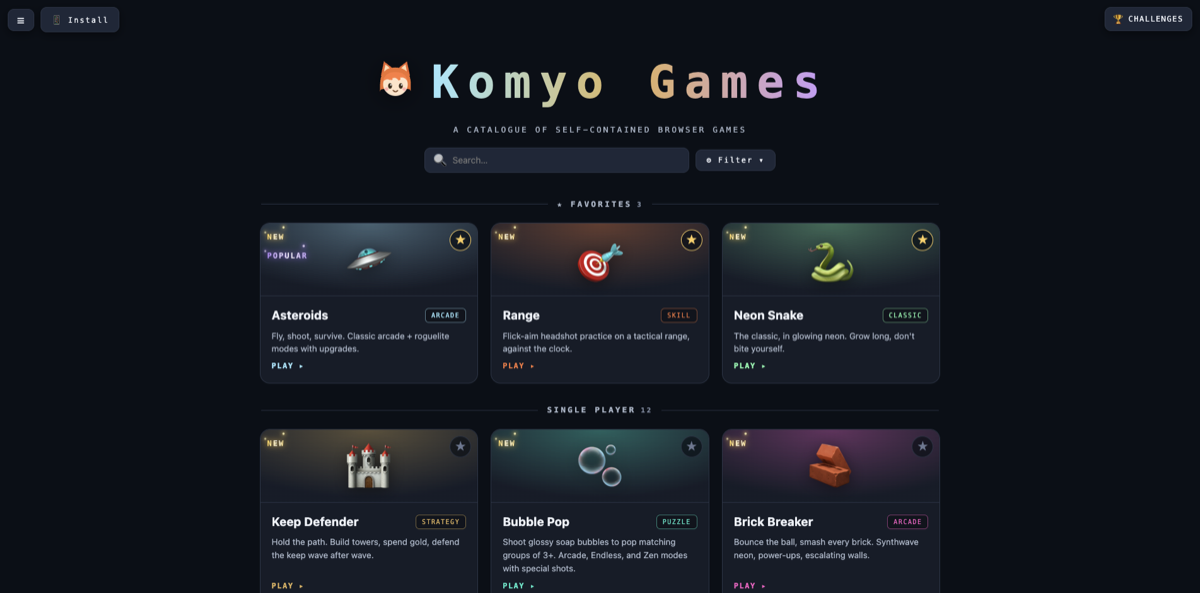
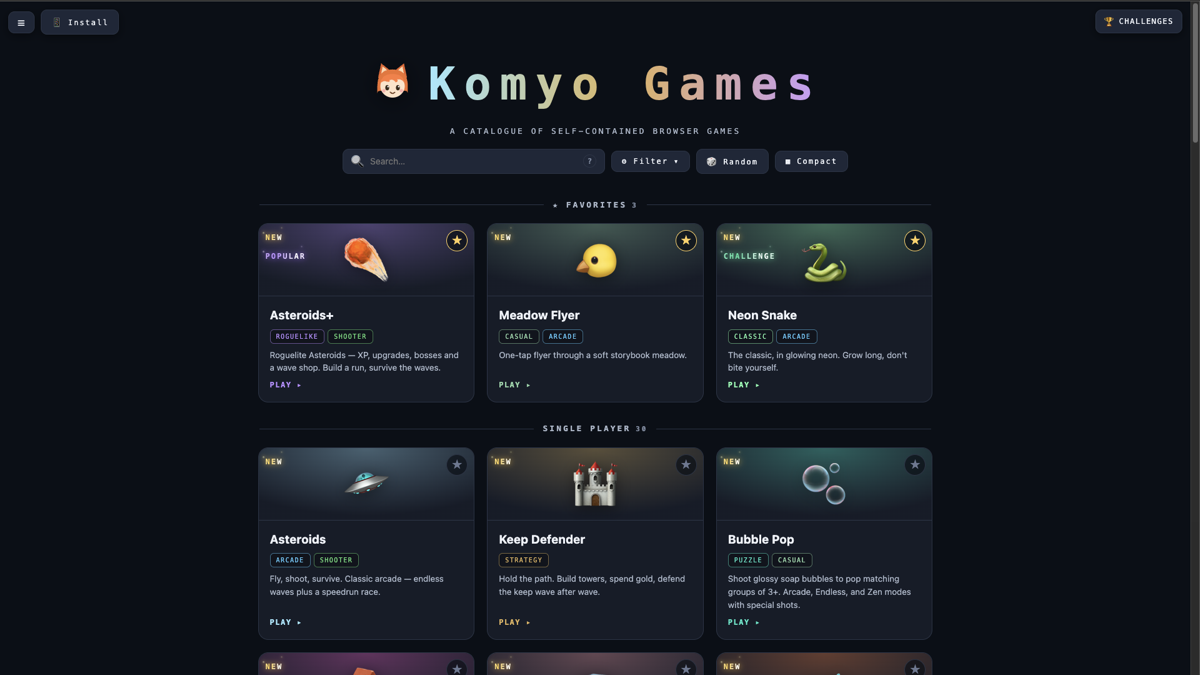
chore: new og-image — fresh 16:9 catalogue shot (1200×675), bump ?v=5

Changed region(s): [[0.2158, 0.0911, 0.8017, 1.0], [0.8942, 0.0, 1.0, 1.0], [0.0308, 0.0, 0.0925, 0.0607]]

diff --git a/index.html b/index.html
@@ -20,14 +20,14 @@
 <meta property="og:title" content="Komyo Games — free browser games">
 <meta property="og:description" content="A little catalogue of free, self-contained browser games. No ads, no payments, plays offline.">
 <meta property="og:url" content="https://komyo.online/">
-<meta property="og:image" content="https://komyo.online/og-image.png?v=4">
+<meta property="og:image" content="https://komyo.online/og-image.png?v=5">
 <meta property="og:image:width" content="1200">
-<meta property="og:image:height" content="593">
+<meta property="og:image:height" content="675">
 <meta property="og:image:alt" content="Komyo Games — self-contained browser games">
 <meta name="twitter:card" content="summary_large_image">
 <meta name="twitter:title" content="Komyo Games — free browser games">
 <meta name="twitter:description" content="A little catalogue of free, self-contained browser games. No ads, plays offline.">
-<meta name="twitter:image" content="https://komyo.online/og-image.png?v=4">
+<meta name="twitter:image" content="https://komyo.online/og-image.png?v=5">
 <!-- Analytics: GA4, loaded only after cookie consent (see analytics.js) -->
 <script src="analytics.js" defer></script>
 <link rel="stylesheet" href="game-kit.css">